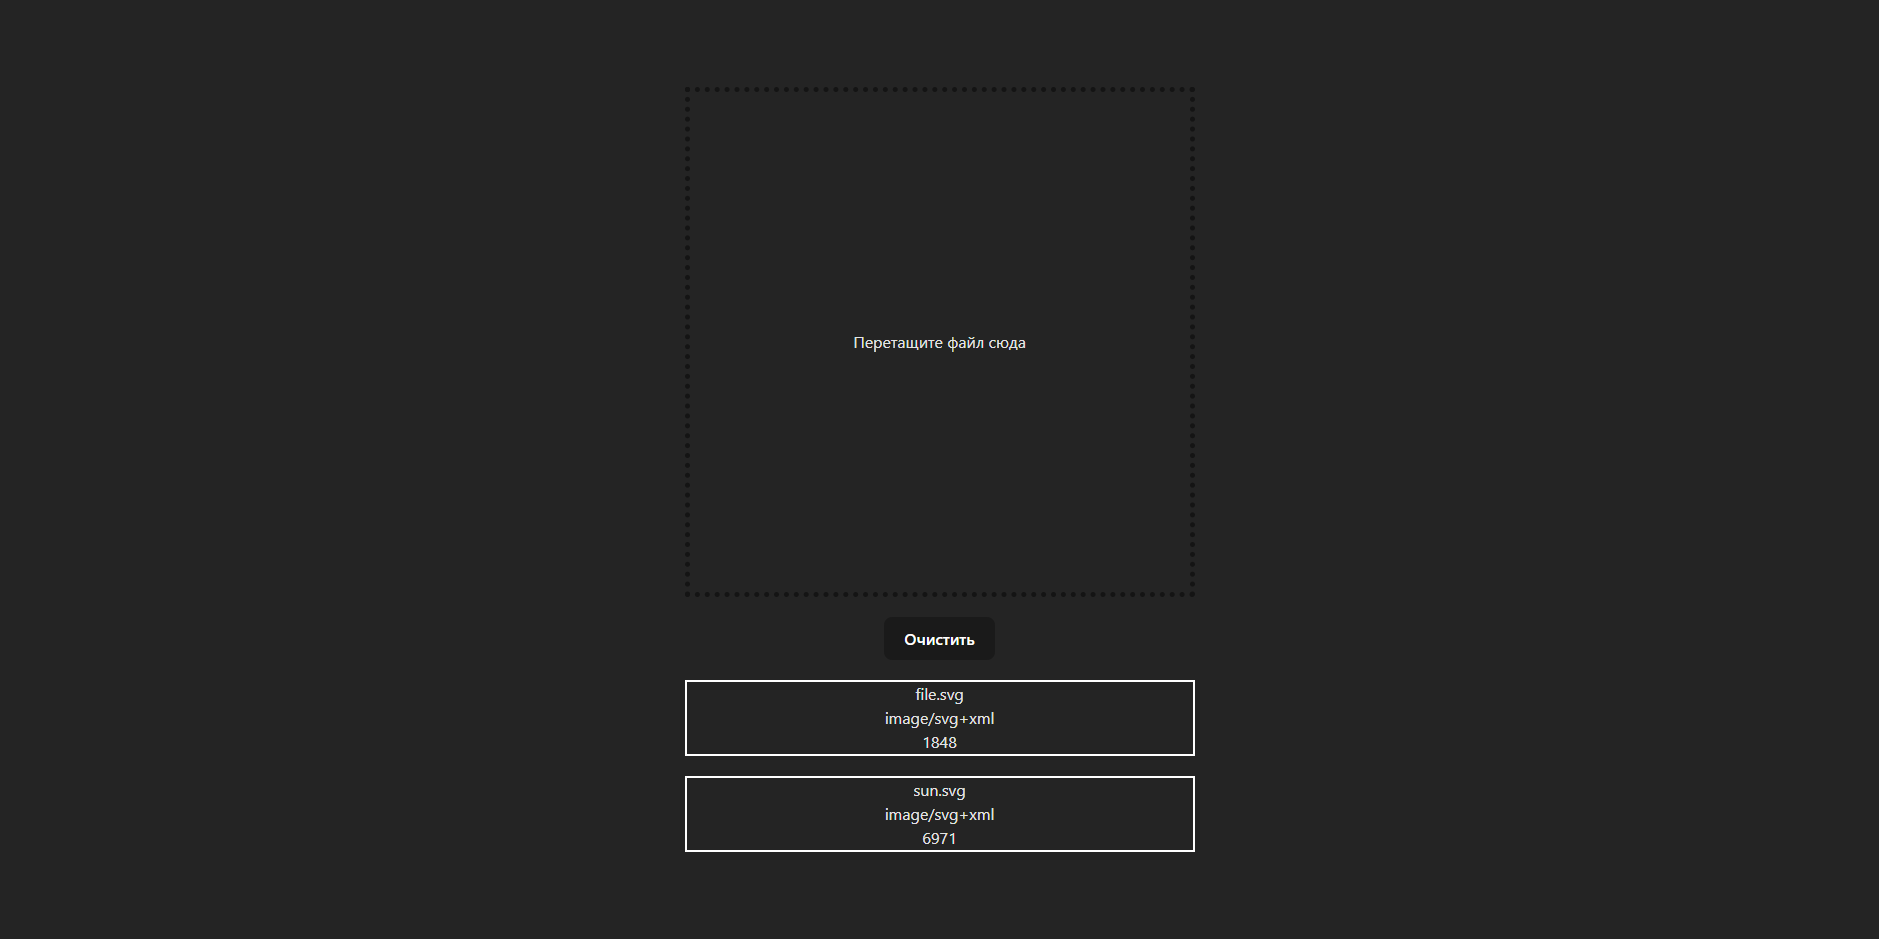
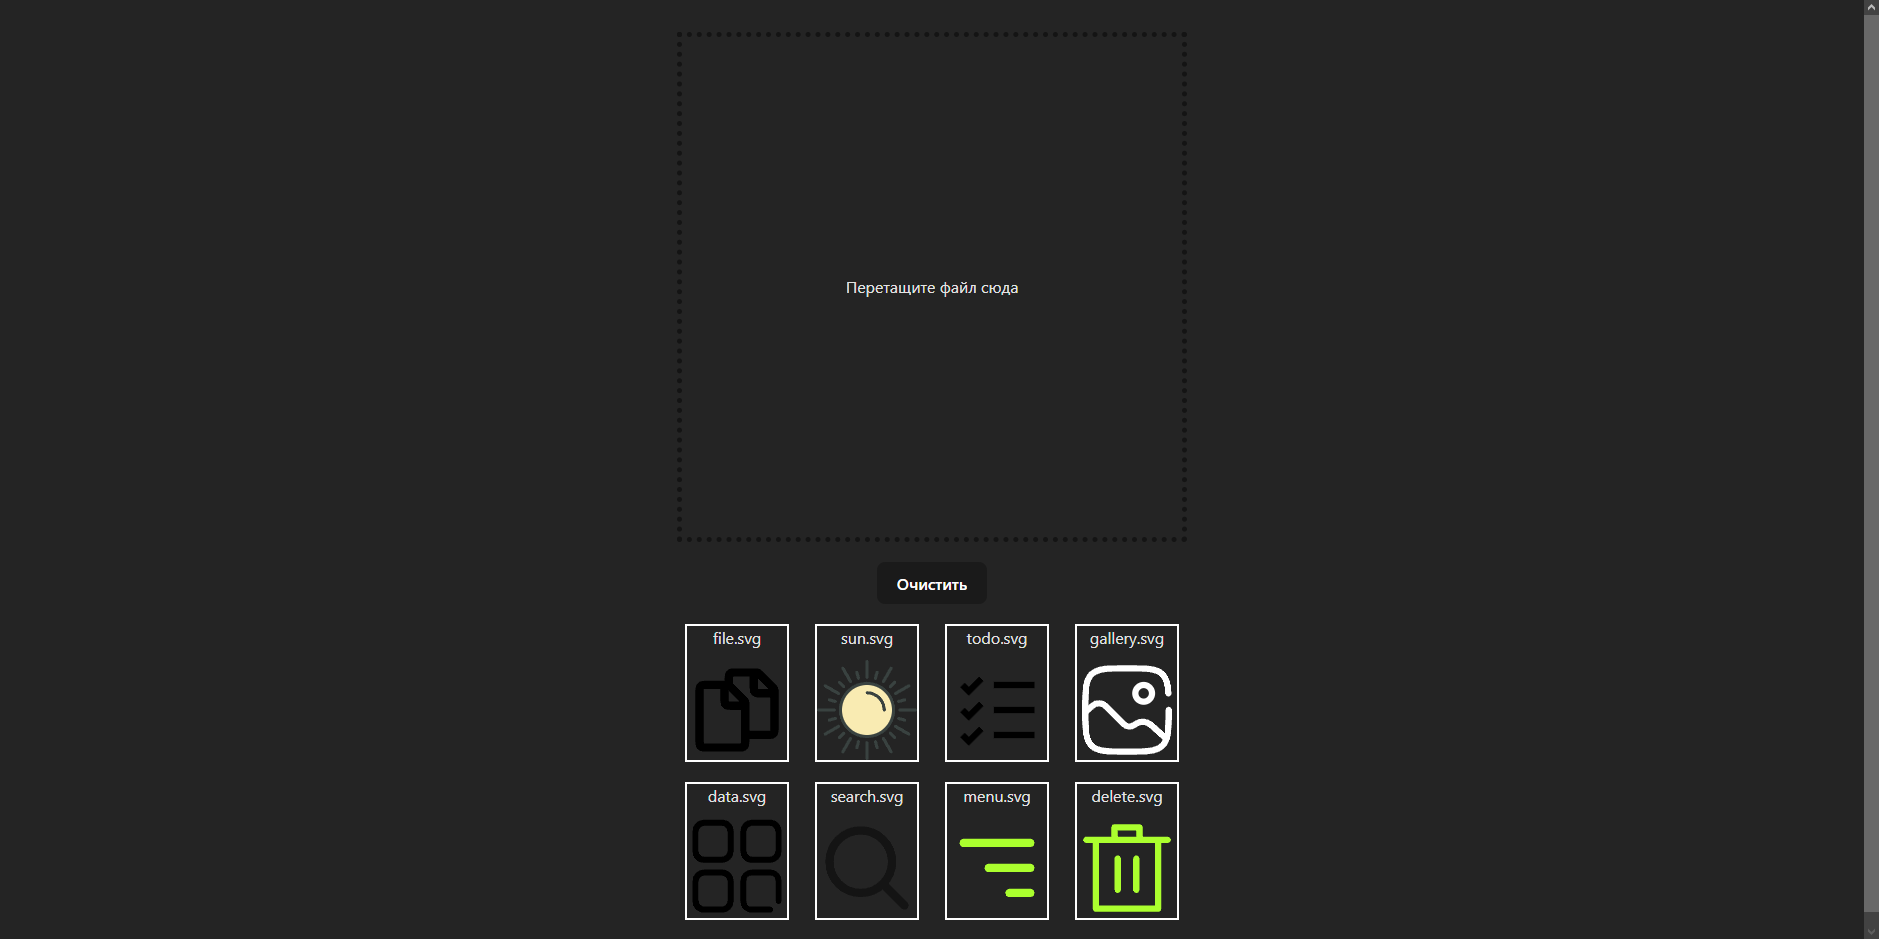
fix screenshots

diff --git a/src/App.tsx b/src/App.tsx
@@ -61,8 +61,7 @@ function App() {
           files.map((file, i) => (
             <div className="file" key={i}>
               <div>{file.name}</div>
-              <div>{file.type}</div>
-              <div>{file.size}</div>
+              <img src={URL.createObjectURL(file)} alt="" width={100} />
             </div>
           ))}
       </div>

diff --git a/src/App.css b/src/App.css
@@ -59,11 +59,18 @@
 }
 
 .files {
+  margin-inline: auto;
   display: flex;
-  flex-direction: column;
+  justify-content: space-around;
+  flex-wrap: wrap;
+  width: 500px;
   gap: 20px;
 }
 
 .file {
+  display: flex;
+  flex-direction: column;
+  gap: 10px;
+  max-width: 110px;
   border: 2px solid white;
 }
